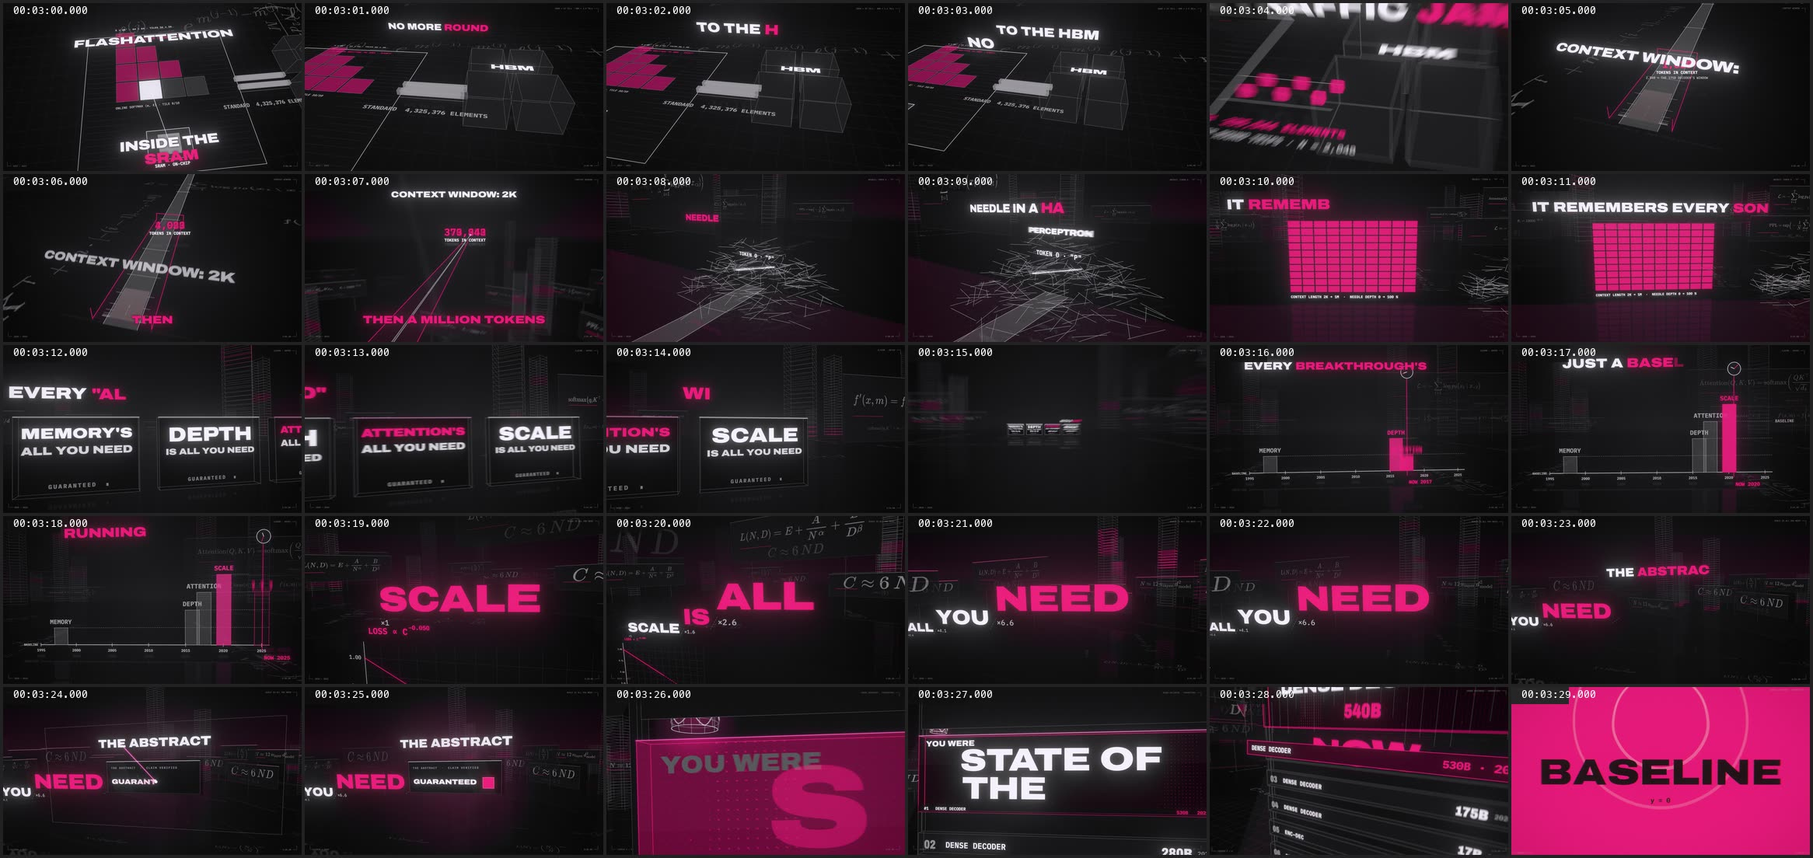
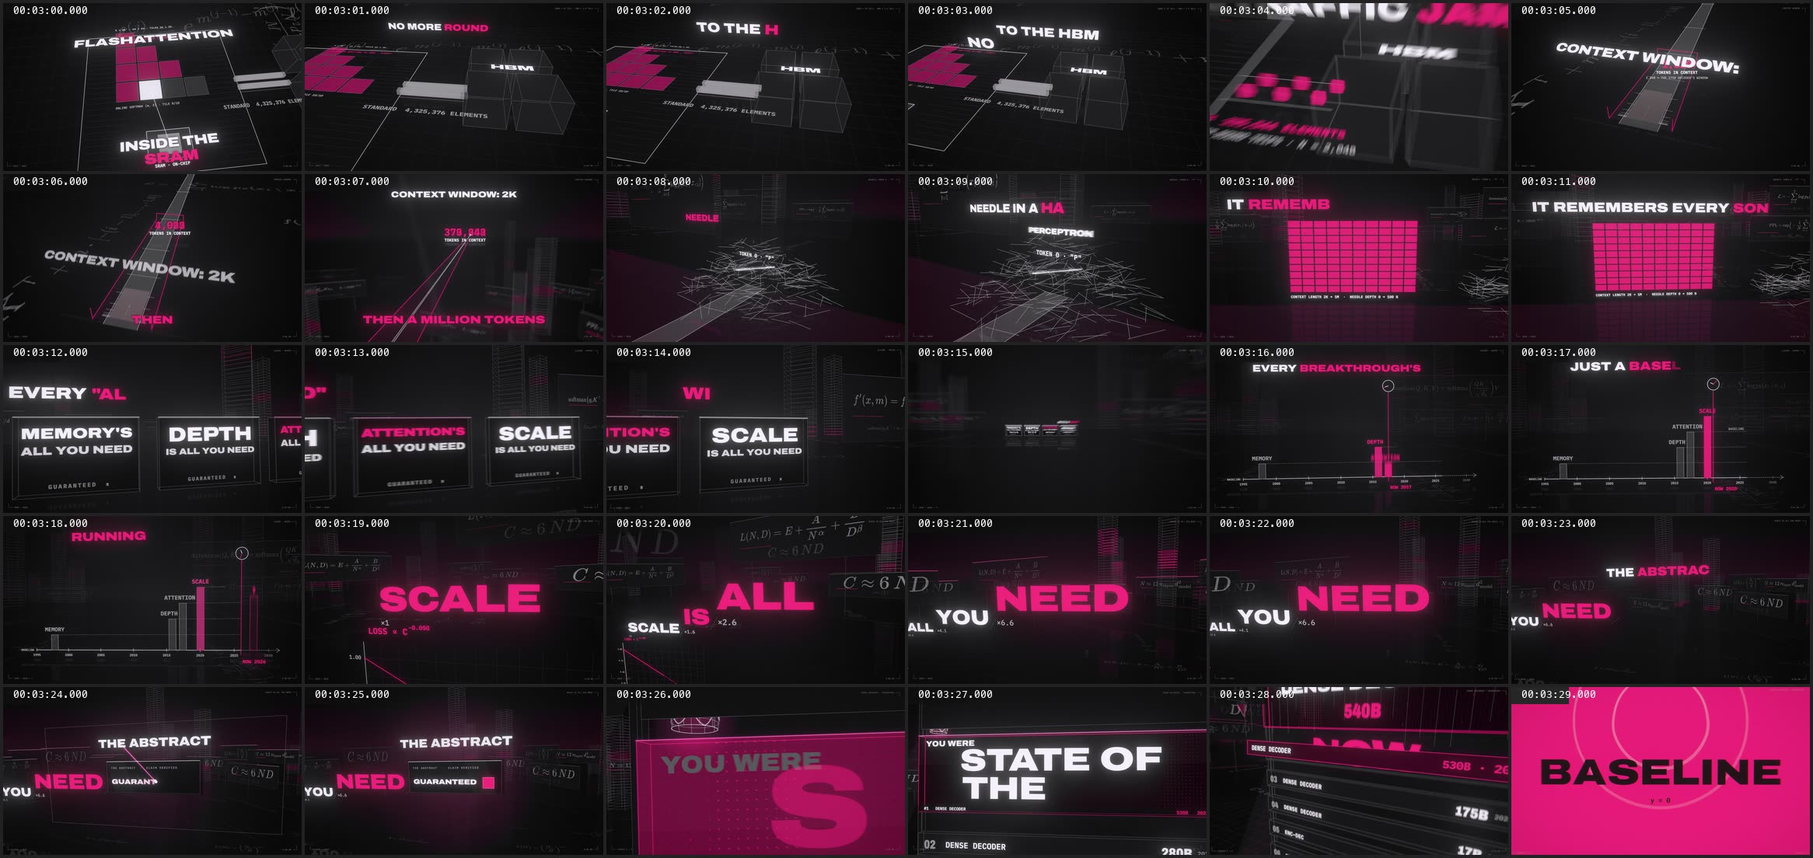
The records' staircase on real dates: NOW at 2026, the future past it
Steps a year wide (1.6 was wider than the year and a half between DEPTH and
ATTENTION, so the two overlapped), a name never pulled into the taller step on
its right, NOW stopping at 2026 on RUNNING, and the axis running on, dashed, into
the future, where three unnamed ? steps rise, each higher; the line lifted clear
of the clock's path; the formula city dimmer behind the chart.

tools/video: re-render a run of frames and splice it into the 4K master at its
IDR frames, bit-exact elsewhere, with a checker.

diff --git a/app/src/scenes/v_ctx.ts b/app/src/scenes/v_ctx.ts
@@ -7,9 +7,10 @@
 //              this film sang; one beam from now back to it, and the retrieval map all green
 //   dates    — the four claims of the pre-choruses on a wall, each stamped with its date: DEPTH 2015-12-10, MEMORY
 //              1997-11-15, ATTENTION 2017-06-12, SCALE 2020-01-23
-//   late     — the same four on a time axis as a staircase of records: NOW sweeps right and each claim rises, higher
-//              than the one before, on its word; the one it beat turns grey, its level run out as a dashed baseline;
-//              on LATE an unnamed next step rises over SCALE; a clock runs ahead of NOW
+//   late     — the same four on a time axis as a staircase of records (each at its paper's real date; the heights are
+//              only an order): NOW sweeps right to 2026 and each claim rises, higher than the one before, on its word;
+//              the one it beat turns grey, its level run out as a dashed baseline; past NOW the axis runs on, dashed,
+//              into the future, and on RUNNING LATE unnamed steps rise there — ? ? ? — higher again; a clock runs on
 // Style: archive tape — warm amber and paper white on teal-black; each claim in its pre-chorus colour.
 import type { Frame, PostOverrides } from '../engine/scene';
 import { VScene, Rig, K, type V3, type Pl, at, floorPl, wallPl, frameMarks, pool, tc, clamp, lerp, ease, hexA, mixHex, hot, F, W, H, U, type Ctx } from './_v';
@@ -32,7 +33,7 @@ export default class Ctx2 extends VScene {
 
   override async init() {
     this.bg = BG;
-    this.env = { eq: ['ppl', 'rope', 'alibi', 'posinterp', 'attention', 'clm'], seed: 14, keep: (x) => Math.abs(x) > 40, r0: 60, fixedR0: true, floorKeep: 0, alpha: (t) => 1 - 0.5 * clamp((t - (this.L[3]![0]!.start - 0.3)) / 0.4) }; // (dimmer behind the records' staircase) // the city round the plate: walls of this plate's formulas (2026-10-10)
+    this.env = { eq: ['ppl', 'rope', 'alibi', 'posinterp', 'attention', 'clm'], seed: 14, keep: (x) => Math.abs(x) > 40, r0: 60, fixedR0: true, floorKeep: 0, alpha: (t) => 1 - 0.65 * clamp((t - (this.L[3]![0]!.start - 0.3)) / 0.4) }; // (dimmer behind the records' staircase, so its names read over the walls) // the city round the plate: walls of this plate's formulas (2026-10-10)
     const ly = this.ctx.lyrics;
     const i0 = ly.lines.findIndex((l) => l.words[0]!.start >= this.ctx.start - 0.3);
     this.L = [0, 1, 2, 3].map((k) => ly.lines[i0 + k]!.words);
@@ -63,19 +64,20 @@ export default class Ctx2 extends VScene {
       } },
       // (the whole axis in frame, nearly still: the records stack up as a staircase and that only reads if every
       // step is seen — following NOW, one spike at a time came up and went down, and it read as noise)
-      { t0: t55 - 0.05, snap: 0.25, name: 'late', key: (t) => { const k = ease.inOutQuad(clamp((t - t55) / 3.6)); return K([lerp(6.0, 8.4, k), lerp(6.4, 7.0, k), 9098 + lerp(24.5, 22.5, k)], [7.2, 6.2, 9098], 46, -0.01); } },
+      // (2026-10-11: back and up a little — the axis now runs on past NOW into the future, and the line sits higher)
+      { t0: t55 - 0.05, snap: 0.25, name: 'late', key: (t) => { const k = ease.inOutQuad(clamp((t - t55) / 3.6)); return K([lerp(8.0, 10.4, k), lerp(7.9, 8.4, k), 9098 + lerp(26.5, 25.0, k)], [9.2, 7.45, 9098], 46, -0.01); } },
     ], [{ t: t2k, amp: 0.6 }, { t: tMil, amp: 1.2 }, { t: t53, amp: 0.6 }, { t: tDate, amp: 1.4 }, { t: t55, amp: 0.6 }], 0.8, 151);
   }
 
   /** NOW on the axis: it passes each claim's year on a word of the line (MEMORY on EVERY, DEPTH on BREAKTHROUGH'S,
-   *  ATTENTION on JUST, SCALE on BASELINE) and the next, unnamed one on LATE */
+   *  ATTENTION on JUST, SCALE on BASELINE) and reaches 2026, today, on RUNNING, and stays */
   private nowKeys: [number, number][] = [];
   private nowYear(t: number) {
     if (!this.nowKeys.length) {
       const L55 = this.L[3]!, w = (re: RegExp) => L55.find((x) => re.test(x.w))!;
       this.nowKeys = [
         [L55[0]!.start - 0.35, 1995.0], [L55[0]!.start + 0.12, 1998.3], [w(/breakthrough/).start + 0.15, 2016.3],
-        [w(/^just$/).start + 0.08, 2017.8], [w(/baseline/).start + 0.08, 2020.4], [w(/late/).start + 0.1, 2025.2],
+        [w(/^just$/).start + 0.08, 2017.8], [w(/baseline/).start + 0.08, 2020.4], [w(/running/).start + 0.25, 2026.0],
         [L55[L55.length - 1]!.end + 0.4, 2026.0],
       ];
     }
@@ -111,7 +113,7 @@ export default class Ctx2 extends VScene {
     pool(c, W * 0.5, H * 0.5, 1000, '#163236', 0.5);
     if (t < t54 + 0.3) this.tape(c, t);
     if (t > t54 - 0.6) this.wallOfDates(c, t);
-    frameMarks(c, U.ash, { tl: 'BASELINE · THE TAPE', tr: t < t53 ? 'CONTEXT WINDOW' : t < t54 ? 'NEEDLE: TOKEN 0 · "P"' : 'CLAIMS · DATED', bl: '2020 — 2024', br: tc(t), alpha: 0.6 });
+    frameMarks(c, U.ash, { tl: 'BASELINE · THE TAPE', tr: t < t53 ? 'CONTEXT WINDOW' : t < t54 ? 'NEEDLE: TOKEN 0 · "P"' : 'CLAIMS · DATED', bl: t < t55 - 0.05 ? '2020 — 2024' : '1995 — 2026 — ?', br: tc(t), alpha: 0.6 });
     return { bloom: 0.8, bloomThreshold: 0.55, halation: 0.2, ca: 0.3 + 1.6 * hot(t, L[2]!.find((x) => /date/.test(x.w))!.start, 0.12), grain: 0.05, vignette: 0.32, zoom: 1 + 0.01 * kick };
   }
 
@@ -266,46 +268,66 @@ export default class Ctx2 extends VScene {
       const anchor = (w: Word): [number, number] => [this.rig ? this.rig.at(w.start).tg[0] : 0, 0];
       c.save(); c.globalAlpha *= 1 - clamp((t - t55.start) / 0.4); this.chunk3(c, L54, t, P, 0, 0, { anchor, size: 1.05, maxW: 15, slam: 0.4, glow: 16, glowColor: U.ink, breaks: [0, 4, 7], text: (x) => x.w.replace(/[“”]/g, '"').replace(',', '') }); c.restore();
     }
-    // late: the records on a time axis. NOW sweeps right; as it passes each claim's year the claim rises as a step,
-    // higher than the one before (the new state of the art) — and the one before turns grey, its top run out as a
-    // dashed line: the level the next one had to beat, now just a baseline. On LATE an unnamed next step rises over
-    // SCALE, and SCALE becomes a baseline too. (2026-10-10: the spikes used to shoot up and sink back, which read as
-    // noise; a record never goes down, it only gets beaten.)
+    // late: the records on a time axis — each claim at its paper's real date; the heights are only an order, each
+    // higher than the last. NOW sweeps right; as it passes each claim's year the claim rises as a step (the new state
+    // of the art) — and the one before turns grey, its top run out as a dashed line to NOW: the level the next one
+    // had to beat, now just a baseline. NOW stops at 2026, today; past it the axis runs on, dashed, into the future,
+    // and on RUNNING LATE unnamed steps rise there — ?, ?, ? — each higher again: SCALE becomes a baseline too.
+    // (2026-10-10: the spikes used to shoot up and sink back, which read as noise; a record never goes down, it only
+    // gets beaten. 2026-10-11: NOW stopped at 2025 with the next one in the past, and the steps, 1.6 wide, were wider
+    // than the year and a half between DEPTH and ATTENTION, so the two overlapped: now 0.9 wide, about a year.)
     if (t > t55.start - 0.3) {
       const a = clamp((t - t55.start + 0.3) / 0.4);
       const ax: Pl = wallPl(9100 - 2, [0, 0, 9100 - 2]);
-      const X = (yr: number) => -6 + (yr - 1995) * 0.85, Y0 = 1.0, XE = X(2026);
-      this.seg(c, at(ax, X(1995), Y0), at(ax, XE, Y0), hexA(PAPER, a), 2);
-      for (let yr = 1995; yr <= 2025; yr += 5) { this.seg(c, at(ax, X(yr), Y0 - 0.2), at(ax, X(yr), Y0 + 0.2), hexA(PAPER, a), 1.4); this.text3(c, String(yr), ax, X(yr), 0.2, { size: 0.42, fam: MONO, color: hexA(PAPER, 0.8 * a), align: 'center' }); }
+      const X = (yr: number) => -6 + (yr - 1995) * 0.85, Y0 = 1.0, XN = X(2026), XF = X(2031.6);
+      // the axis: solid up to today, then dashed into the future, with an arrow
+      this.seg(c, at(ax, X(1995), Y0), at(ax, XN, Y0), hexA(PAPER, a), 2);
+      this.seg(c, at(ax, XN, Y0), at(ax, XF, Y0), hexA(PAPER, 0.55 * a), 2, { dash: [7, 6] });
+      for (const s of [1, -1]) this.seg(c, at(ax, XF, Y0), at(ax, XF - 0.4, Y0 + 0.25 * s), hexA(PAPER, 0.55 * a), 2);
+      for (let yr = 1995; yr <= 2030; yr += 5) {
+        const ya = (yr > 2026 ? 0.5 : 1) * a;
+        this.seg(c, at(ax, X(yr), Y0 - 0.2), at(ax, X(yr), Y0 + 0.2), hexA(PAPER, ya), 1.4);
+        this.text3(c, String(yr), ax, X(yr), 0.2, { size: 0.42, fam: MONO, color: hexA(PAPER, 0.8 * ya), align: 'center' });
+      }
       this.text3(c, 'BASELINE', ax, X(1995) - 0.35, Y0, { size: 0.36, fam: MONOB, color: hexA(PAPER, 0.7 * a), align: 'right', mid: true });
       const now = this.nowYear(t);
-      // the steps: MEMORY, DEPTH, ATTENTION, SCALE, then the next one — each higher than the last
-      const STEPS = [...CLAIMS.map((cl) => ({ name: cl.s.split(' ')[0]!.replace("'S", ''), year: cl.year, ghost: false })), { name: '? ? ?', year: 2025.0, ghost: true }];
-      const H = [2.0, 4.0, 6.0, 8.0, 10.2], SW = 1.6;
+      // the steps: MEMORY, DEPTH, ATTENTION, SCALE — each higher than the last — then, past NOW, the ones to come
+      const STEPS = CLAIMS.map((cl) => ({ name: cl.s.split(' ')[0]!.replace("'S", ''), year: cl.year }));
+      const H = [2.0, 4.0, 6.0, 8.0], SW = 0.9;
+      const FUT: [number, number, number][] = [[2027.8, 9.6, 1], [2029.1, 11.0, 0.7], [2030.4, 12.4, 0.45]]; // year, height, alpha
+      // (up as NOW reaches today, on RUNNING: rising on LATE they were gone in the whip before they could be read)
+      const tRun = L55.find((x) => /running/.test(x.w))!.start, tFut = (j: number) => tRun + 0.3 + j * 0.12;
       const tLand = STEPS.map((st) => this.yearTime(st.year));
+      const tBeat = STEPS.map((_, i) => (i + 1 < STEPS.length ? tLand[i + 1]! : tFut(0))); // when a higher one lands
       let lastBeaten = -1; // the newest baseline: the highest step a later one has beaten
-      for (let i = 0; i + 1 < STEPS.length; i++) if (t >= tLand[i + 1]!) lastBeaten = i;
+      for (let i = 0; i < STEPS.length; i++) if (t >= tBeat[i]!) lastBeaten = i;
       STEPS.forEach((st, i) => {
         const tl = tLand[i]!;
         if (t < tl - 0.02) return;
         const rise = ease.outBack(clamp((t - tl) / 0.28), 1.5), h = H[i]! * rise, x = X(st.year);
-        const beaten = i + 1 < STEPS.length && t >= tLand[i + 1]!; // a higher one has landed
-        const dem = beaten ? clamp((t - tLand[i + 1]!) / 0.25) : 0;
-        const col = st.ghost ? MAG : mixHex(MAG, U.ash, dem);
+        const dem = t >= tBeat[i]! ? clamp((t - tBeat[i]!) / 0.25) : 0;
+        const col = mixHex(MAG, U.ash, dem);
         const top = Y0 + h;
-        if (st.ghost) {
-          this.rect3(c, ax, x - SW / 2, Y0, SW, h, { stroke: hexA(MAG, a), lw: 2, dash: [6, 5] });
-        } else {
-          this.rect3(c, ax, x - SW / 2, Y0, SW, h, { fill: hexA(col, (0.85 - 0.6 * dem) * a), stroke: hexA(col, a), lw: 1.6 });
-          // its level, once beaten: a dashed line on to the end of the axis — the baseline the next one beat
-          if (dem > 0) {
-            const xe = lerp(x + SW / 2, XE, ease.outCubic(dem));
-            this.seg(c, at(ax, x + SW / 2, top), at(ax, xe, top), hexA(U.ash, 0.75 * a), 1.4, { dash: [6, 6] });
-            // (the newest baseline says so at the end of its line)
-            if (i === lastBeaten && dem >= 1) this.text3(c, 'BASELINE', ax, XE + 0.3, top, { size: 0.46, fam: MONOB, color: hexA(U.ash, 0.9 * a), mid: true });
-          }
+        this.rect3(c, ax, x - SW / 2, Y0, SW, h, { fill: hexA(col, (0.85 - 0.6 * dem) * a), stroke: hexA(col, a), lw: 1.6 });
+        // its level, once beaten: a dashed line on to NOW — the baseline the next one beat
+        if (dem > 0) {
+          const xe = lerp(x + SW / 2, XN, ease.outCubic(dem));
+          this.seg(c, at(ax, x + SW / 2, top), at(ax, xe, top), hexA(U.ash, 0.75 * a), 1.4, { dash: [6, 6] });
+          // (the newest baseline says so at the end of its line, just short of NOW)
+          if (i === lastBeaten && dem >= 1) this.text3(c, 'BASELINE', ax, XN - 0.35, top + 0.2, { size: 0.42, fam: MONOB, color: hexA(U.ash, 0.9 * a), align: 'right' });
         }
-        this.text3(c, st.name, ax, x, top + 0.45, { size: st.ghost ? 0.8 : 0.72, fam: MONOB, color: hexA(col, a), align: 'center' });
+        // (a name wider than its step is pulled left, never into the taller step on its right — 2026-10-11)
+        const lo = { size: 0.72, fam: MONOB };
+        const nextL = i + 1 < STEPS.length ? X(STEPS[i + 1]!.year) - SW / 2 - 0.2 : Infinity;
+        this.text3(c, st.name, ax, Math.min(x, nextL - this.tw3(st.name, lo) / 2), top + 0.45, { ...lo, color: hexA(col, a), align: 'center' });
+      });
+      // the future: unnamed, dashed, each higher again, fainter the further off
+      FUT.forEach(([yr, hh, al], j) => {
+        const tj = tFut(j);
+        if (t < tj - 0.02) return;
+        const h = hh * ease.outBack(clamp((t - tj) / 0.3), 1.5), x = X(yr), fa = a * al;
+        this.rect3(c, ax, x - SW / 2, Y0, SW, h, { fill: hexA(MAG, 0.08 * fa), stroke: hexA(MAG, fa), lw: 2, dash: [6, 5] });
+        this.text3(c, '?', ax, x, Y0 + h + 0.45, { size: 0.8, fam: MONOB, color: hexA(MAG, fa), align: 'center' });
       });
       // NOW
       this.seg(c, at(ax, X(now), 0.4), at(ax, X(now), 12.3), hexA(GRN, a), 2.4);
@@ -316,8 +338,8 @@ export default class Ctx2 extends VScene {
       const ang = -t * 9;
       this.seg(c, at(CP, 0, 0), at(CP, Math.cos(ang) * 0.62, Math.sin(ang) * 0.62), RED, 2.4);
       this.seg(c, at(CP, 0, 0), at(CP, Math.cos(ang / 12) * 0.4, Math.sin(ang / 12) * 0.4), PAPER, 2.4);
-      // the line itself
-      const P: Pl = { o: [4.6, 13.4, 9100 - 1.9], r: [1, 0, 0], u: [0, 1, 0] };
+      // the line itself (over the clock's path, never through it)
+      const P: Pl = { o: [6.5, 15.0, 9100 - 1.9], r: [1, 0, 0], u: [0, 1, 0] };
       this.chunk3(c, L55, t, P, 0, 0, { size: 1.5, maxW: 22, slam: 0.4, glow: 16, glowColor: U.ink, breaks: [0, 2, 5], text: (x) => x.w.replace('’', "'") });
       void MAG;
     }

diff --git a/tools/video/check_splice.py b/tools/video/check_splice.py
@@ -1,0 +1,53 @@
+"""Check a spliced master against the original (tools/video/splice.sh): every packet's timestamps, the packets
+outside [K1, K2) the original's own, and the decoded frames on both sides of each splice point bit-identical to the
+original's (60 fps).
+   python3 check_splice.py <orig.mp4> <new.mp4> <K1> <K2> <workdir> [<segment.mp4>]"""
+import subprocess, sys
+
+orig, new, K1, K2, W = sys.argv[1], sys.argv[2], int(sys.argv[3]), int(sys.argv[4]), sys.argv[5]
+
+
+def packets(f):
+    o = subprocess.run(['ffprobe', '-v', 'error', '-select_streams', 'v:0', '-show_entries', 'packet=pts,dts,size,flags',
+                        '-of', 'csv=p=0', f], capture_output=True, text=True, check=True).stdout
+    return [l.split(',') for l in o.split('\n') if l.strip()]
+
+
+po, pn = packets(orig), packets(new)
+print('packets', len(po), len(pn))
+assert len(po) == len(pn), 'frame count differs'
+pts = sorted(int(r[0]) for r in pn)
+bo, bn = min(int(r[0]) for r in po), pts[0]
+print('first pts: orig', bo, 'new', bn)
+step = pts[1] - pts[0]
+assert [p - bn for p in pts] == [i * step for i in range(len(pts))], 'display timestamps are not exactly 0..N-1 frames'
+dts = [int(r[1]) for r in pn]
+assert all(b > a for a, b in zip(dts, dts[1:])), 'decode timestamps not strictly increasing'
+# outside [K1, K2) the bitstream must be the original's, packet for packet (decode order == display order at IDRs)
+same = sum(1 for i in range(len(po)) if (i < K1 or i >= K2) and po[i][2] == pn[i][2] and int(po[i][0]) - bo == int(pn[i][0]) - bn)
+print('packets outside the splice identical (pts, size):', same, 'of', len(po) - (K2 - K1))
+assert same == len(po) - (K2 - K1)
+print('keyframes at the splice points:', pn[K1][3], pn[K2][3])
+assert 'K' in pn[K1][3] and 'K' in pn[K2][3]
+
+
+def md5s(f, a, b, fps=60):
+    # decode display frames [a, b) and hash each (seek half a frame early: the first frame out is frame a)
+    o = subprocess.run(['ffmpeg', '-v', 'error', '-ss', f'{(a - 0.5) / fps:.6f}', '-i', f, '-map', '0:v:0', '-frames:v', str(b - a),
+                        '-vsync', 'passthrough', '-f', 'framemd5', '-'], capture_output=True, text=True, check=True).stdout
+    return [l.split(',')[-1].strip() for l in o.split('\n') if l and not l.startswith('#')]
+
+
+for a, b in [(K1 - 30, K1), (K2, K2 + 30)]:
+    mo, mn = md5s(orig, a, b), md5s(new, a, b)
+    print(f'decoded frames {a}..{b - 1}: {sum(x == y for x, y in zip(mo, mn))}/{len(mo)} identical')
+    assert mo == mn and len(mo) == b - a
+# the spliced run itself decodes to the segment's own frames (its first and last 30)
+if len(sys.argv) > 6:
+    seg = sys.argv[6]
+    n = K2 - K1
+    for a, b in [(0, 30), (n - 30, n)]:
+        ms, mn = md5s(seg, a, b), md5s(new, K1 + a, K1 + b)
+        print(f'segment frames {a}..{b - 1} = new {K1 + a}..{K1 + b - 1}: {sum(x == y for x, y in zip(ms, mn))}/{len(ms)} identical')
+        assert ms == mn and len(ms) == b - a
+print('OK')

diff --git a/docs/make_shotlist.py b/docs/make_shotlist.py
@@ -147,7 +147,7 @@ SHOTS = {
     ('bridgeB', 'needle'): '磁帶最遠端的乾草堆裡有一根針：token 0，PERCEPTRON 的 P（這部片唱的第一個字）；一道光從現在回到它；NEEDLE IN A HAYSTACK。',
     ('bridgeB', 'map'): '檢索地圖（上下文長度 × 針的深度）全部綠色；IT REMEMBERS EVERY SONG。',
     ('bridgeB', 'stones'): '四句宣言是一排黑玻璃墓碑，每塊刻著宣言與 GUARANTEED ∎，在 DATE 上刻出日期（1997-11-15、2015-12-10、2017-06-12、2020-01-23）；EVERY "ALL YOU NEED" / IS A PAPER / WITH A DATE 掛在碑上方。',
-    ('bridgeB', 'late'): '時間軸上的紀錄樓梯：NOW 往右掃，每唱一個字就有一個宣言升起，一階比一階高（MEMORY → DEPTH → ATTENTION → SCALE）；被超越的變灰，頂端延伸成虛線的 BASELINE；在 LATE 上一個未命名的 ? ? ? 升得比 SCALE 還高；時鐘在 NOW 頂端快轉。',
+    ('bridgeB', 'late'): '時間軸上的紀錄樓梯（橫軸是真實年份，每個宣言立在它代表論文的發表日；高度只表示一階比一階高）：NOW 往右掃，每唱一個字就有一個宣言升起（MEMORY 1997 → DEPTH 2015 → ATTENTION 2017 → SCALE 2020）；被超越的變灰，頂端延伸成虛線的 BASELINE；唱到 RUNNING 時 NOW 停在 2026（現在），x 軸往右延伸成虛線的未來，三根未命名的 ? 一根比一根高地升起，SCALE 也成了 baseline；時鐘在 NOW 頂端快轉。',
     ('pre4', 'stairs'): '對數—對數平面上的冪律線，每唱一個字鏡頭退後一個數量級，SCALE 的每個字母都比上一個大十倍；超出資料的部分畫成虛線 EXTRAPOLATED；石碑與 ∎。',
     ('chorus4', 'state'): '同 chorus 1，排行榜換成參數量（BIGGER IS BETTER?），過載的一輪。',
     ('chorus4', 'dive'): '最重的一次砸落。',

diff --git a/docs/MAKING.md b/docs/MAKING.md
@@ -113,6 +113,17 @@ ffmpeg -i out/Baseline-4K-master.mp4 -map 0:v:0 -map 0:a:0 -c:v libx264 -preset 
   -c:a copy -movflags +faststart out/Baseline-4K.mp4
 ```
 
+- 改一小段時不必整片重算。每一格只跟時間有關，所以只重算受影響的那幾秒（從前一個 IDR 關鍵影格算到後一個），用和母帶完全相同的 x264 參數編碼，再在這兩個 IDR 處接回母帶，其他部分不重新編碼：
+
+```bash
+cd app && bun scripts/render.ts video --scale 2 --fps 60 --samples auto --min-samples 4 --max-samples 108 --crf 17 \
+  --from 194.33333333333334 --to 199.88333333333333 --noaudio --out ../out/seg.mp4      # 第 11660–11992 格
+cd .. && sh tools/video/splice.sh out/Baseline-4K-master.mp4 out/seg.mp4 11660 11993 out/new-master.mp4 work/
+python3 tools/video/check_splice.py out/Baseline-4K-master.mp4 out/new-master.mp4 11660 11993 work/ out/seg.mp4
+```
+
+  接點有三個陷阱：先把母帶切成幾個檔再接，ffmpeg 會把時間戳平移 B 幀的延遲（2 格），聲音和畫面就差 2 格；concat 預設會把 SPS/PPS 塞進每個關鍵影格（`-auto_convert 0` 關掉）；音軌的封包會提早觸發切點，所以只拿影像軌來接，聲音最後整條放回。`check_splice.py` 檢查總格數、時間戳逐格連續、切點以外的封包和原母帶逐一相同、切點前後與接進來那段的頭尾各 30 格解碼後逐位元相同。
+
 ## 7. 品質檢查
 
 每個工具都是 `render.ts` 的一個模式：
@@ -138,12 +149,13 @@ ffmpeg -i out/Baseline-4K-master.mp4 -map 0:v:0 -map 0:a:0 -c:v libx264 -preset 
 6. **v4 統一風格**：一套顏色（墨黑、骨白、洋紅）、巨字砸下、一格一個主角。
 7. **v9 打磨**：GUARANTEED 從「廉價的金色貼紙」改成黑玻璃石碑雷射刻字；鏡面地板、場景間轉場、全片相機；主歌三重做；全片文字重疊檢查。
 8. **v10**：公式城市與 71 條論文公式、光暈減半、∎ 推進接副歌、字要讀得到（lyricvis，看不清的字從 95 個降到 11 個，剩下的都是 0.1–0.3 秒的短字）、紀錄的樓梯。
+9. **4K 之後的修正**：紀錄樓梯的長條比 DEPTH 到 ATTENTION 的一年半還寬，兩根疊在一起；NOW 停在 2025，下一個紀錄還放在過去。改成長條約一年寬、NOW 停在 2026、x 軸延伸到未來、三根「?」。只重算受影響的 333 格，接回母帶（見第 6 節）。
 
 學到的事：
 - 字太近、太快、被切掉，觀眾就看不懂；鏡頭要讓整個字在畫面裡，片語要放在鏡頭正在看的地方。
 - 畫面上的每個東西都要有意義；飄過去的方塊再好看也是雜訊。
 - 會重疊、會出框的字一定會被看到；與其靠眼睛找，不如寫一支逐格檢查的程式。
-- 紀錄只會被超越，不會自己掉下來——圖表的語意要對。
+- 紀錄只會被超越，不會自己掉下來——圖表的語意要對；用了真實年份，長條的寬度也要跟著真實的間隔。
 
 ## 9. 授權
 

diff --git a/README.md b/README.md
@@ -31,7 +31,7 @@ MoE 路由、INT4 量化、LoRA rank-8、Bradley–Terry 獎勵、FlashAttention
 | `app/public/data/` | 畫面用的計算結果（由 `tools/data/` 的腳本產生） |
 | `app/eq.json` | 畫面上的 71 條公式（TeX，取自各篇原始論文）；`bun scripts/eq.ts` 用 MathJax 排版成 `public/eq/` |
 | `analysis/` | 逐字對齊與節拍分析 → `data/lyrics.json`、`data/audio.json` |
-| `tools/` | 資料產生腳本：conv1 訓練、BPE 等（環境：`tools/requirements.txt`） |
+| `tools/` | 資料產生腳本：conv1 訓練、BPE 等（環境：`tools/requirements.txt`）；`tools/video/` 把重算的一小段無損接回 4K 母帶 |
 | `cover/` | 封面（3840 × 2160 PNG、1280 × 720 JPG），由 `app/src/scenes/cover.ts` 算出 |
 | `docs/` | 設計、分鏡、製作說明、影片簡介 |
 | `audio/baseline.wav` | 歌曲 |
@@ -48,7 +48,7 @@ bunx vite                                   # 在瀏覽器即時預覽
 bun scripts/render.ts video --fps 60 --samples auto --max-samples 108 --crf 17 --out ../out/Baseline.mp4
 ```
 
-加 `--scale 2` 就是真 4K（3840×2160，版面不變、只是解析度加倍）；成片就是這樣算的（4K60，約 1.6 GB 以上，太大所以不放進 repo，`out/` 在 .gitignore 裡）。
+加 `--scale 2` 就是真 4K（3840×2160，版面不變、只是解析度加倍）；成片就是這樣算的（4K60：母帶約 17 GB、上傳版約 2.6 GB，太大所以不放進 repo，`out/` 在 .gitignore 裡）。
 其他模式：`stills --t 18.9,19.2`（單張截圖）、`sheet --from 20 --to 35 --cols 4`（聯絡表）、
 `textqa --from 0 --to 247.2`（逐字形檢查全片文字有沒有重疊）。
 
